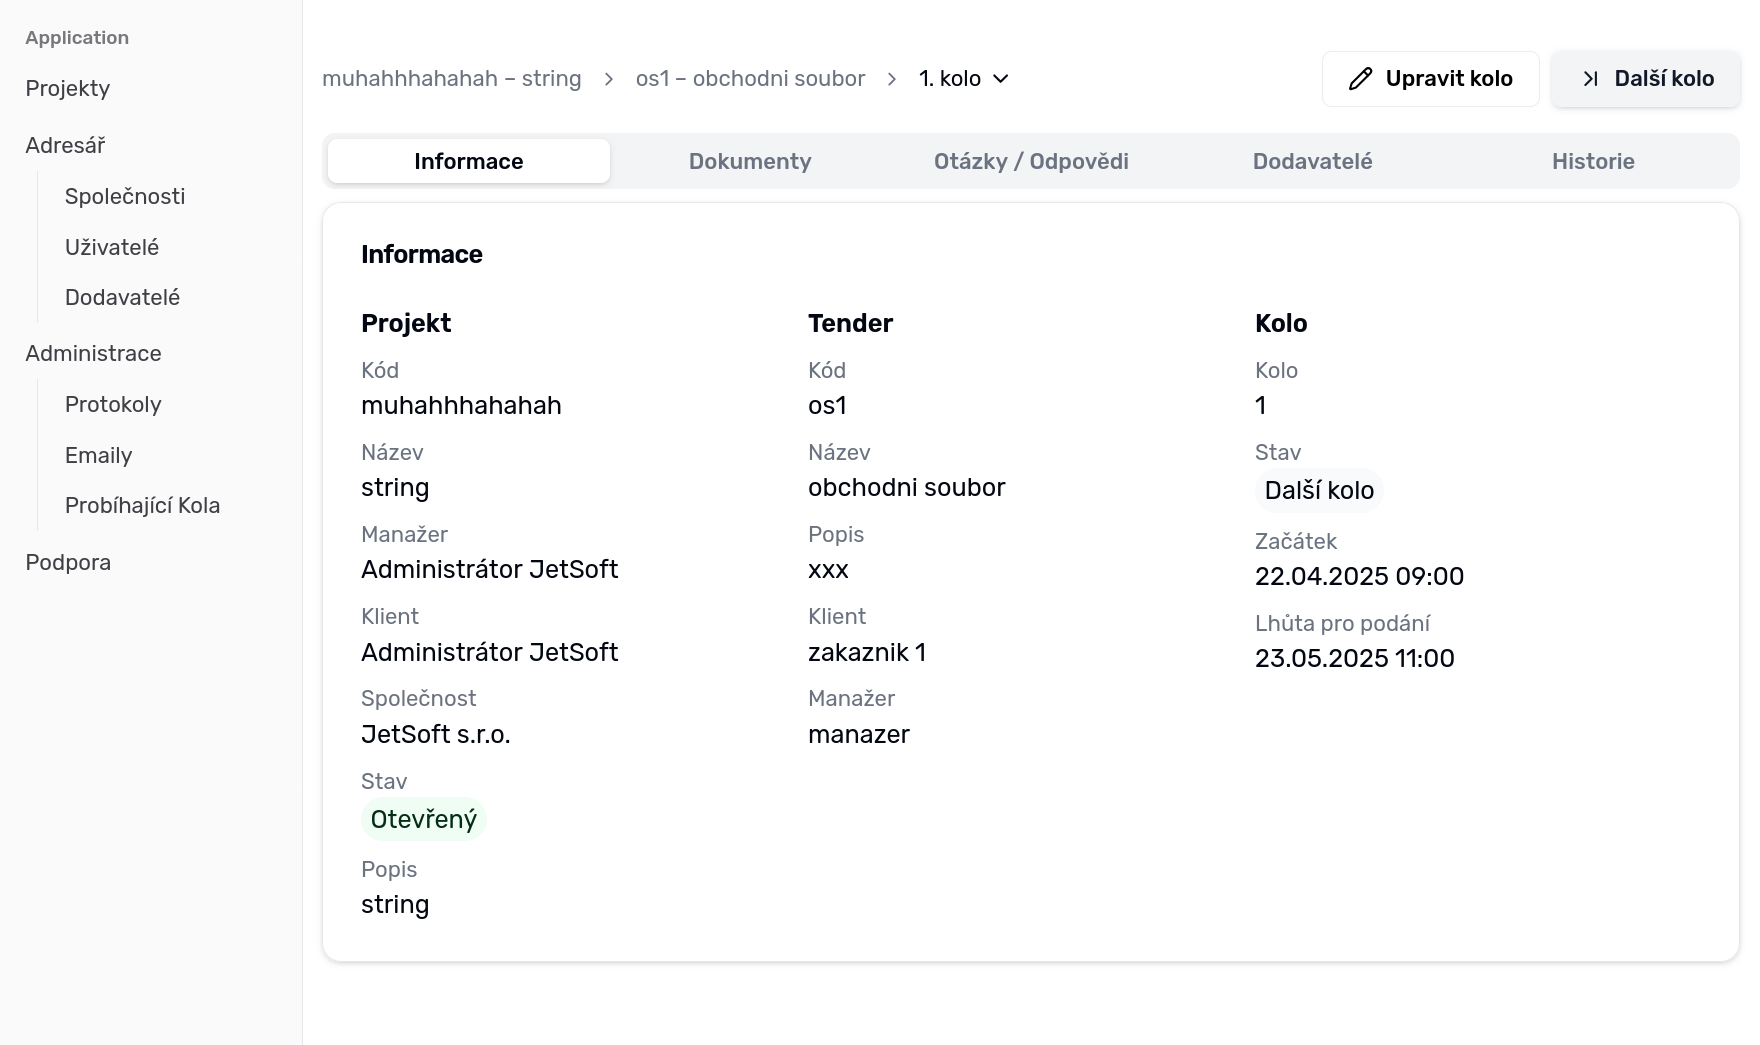
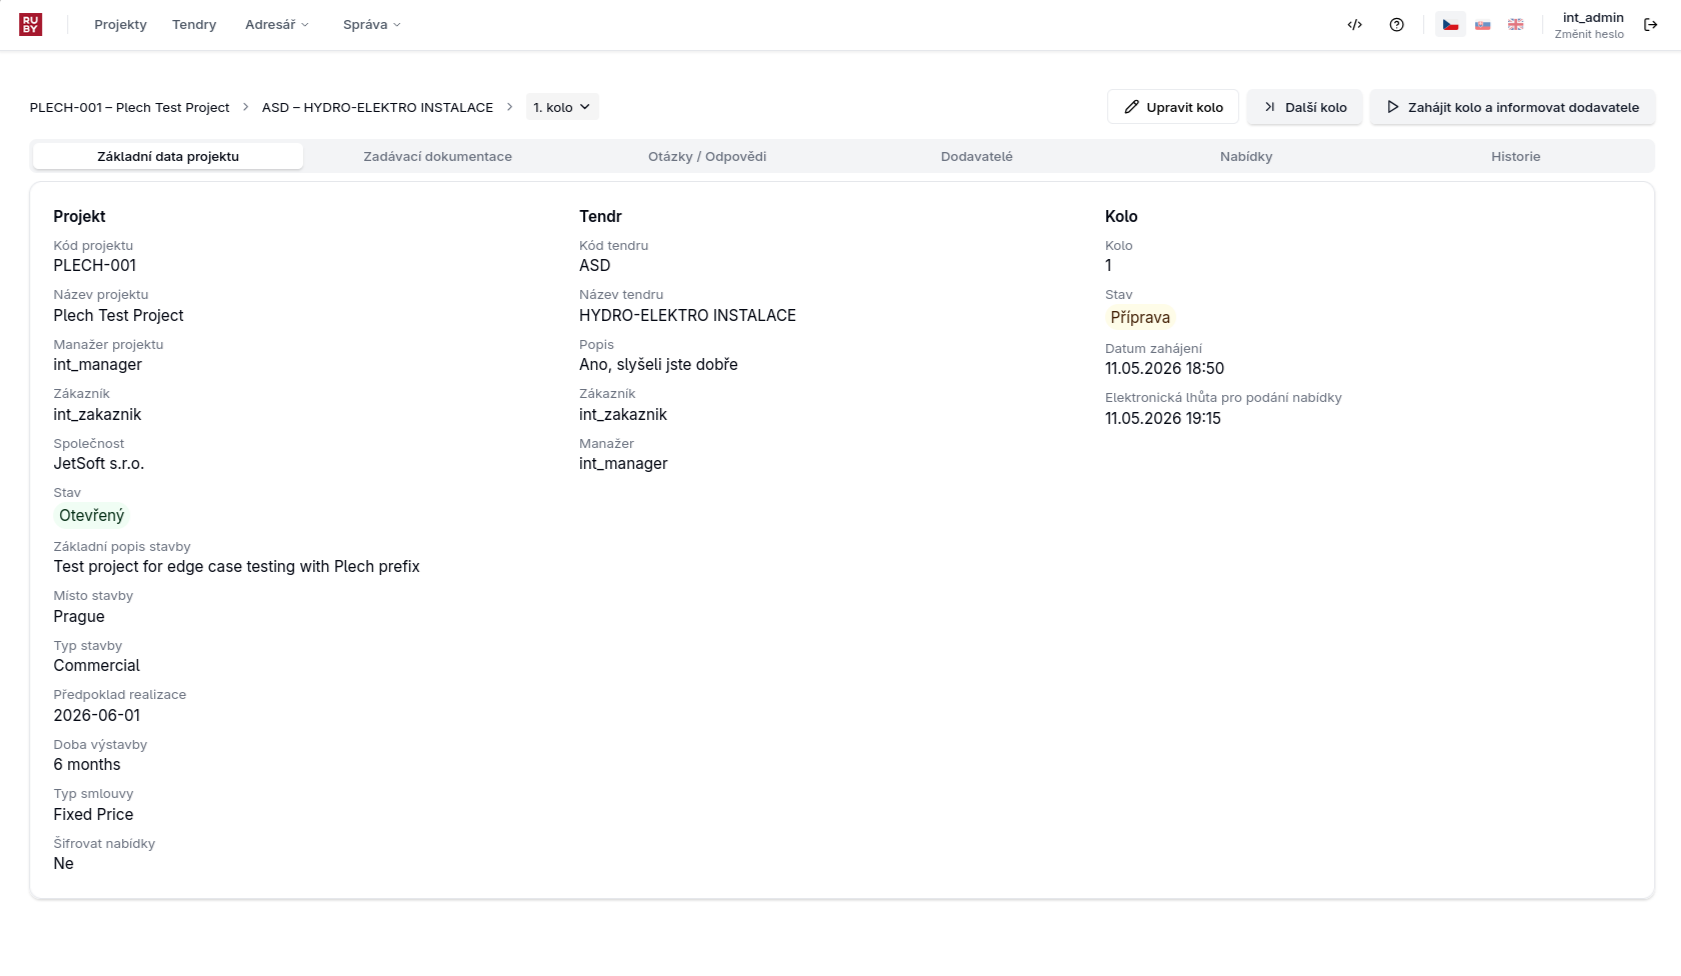
new projects content

diff --git a/src/pages/projects/mhd-run.md b/src/pages/projects/mhd-run.md
@@ -1,0 +1,14 @@
+---
+layout: ../../layouts/ProjectLayout.astro
+name: MHD run
+image: /src/images/projects/mhd-run.png
+description: "MHD Run je inspirovaný hrou Jet Lag: The Game a odehrává se na síti pražské hromadné dopravy. Dva týmy se střetnou — jeden se snaží dosáhnout svého tajného cíle, druhý ho chce chytit. Karty, powerupy a omezený čas na MHD dělají každé kolo nepředvídatelným."
+tags: [webová aplikace, webová stránka, vue.js]
+year: 2025–současnost
+priority: 10
+featured: true
+---
+
+# MHD run
+
+MHD Run je inspirovaný hrou Jet Lag: The Game a odehrává se na síti pražské hromadné dopravy. Dva týmy se střetnou — jeden se snaží dosáhnout svého tajného cíle, druhý ho chce chytit. Karty, powerupy a omezený čas na MHD dělají každé kolo nepředvídatelným.

diff --git a/src/pages/projects/jetsft-web.md b/src/pages/projects/jetsft-web.md
@@ -1,0 +1,10 @@
+---
+layout: ../../layouts/ProjectLayout.astro
+name: JetSoft.cz web
+image: /src/images/projects/Jetsoft-web.png
+description: "Web firmy JetSoft není jen jednuduchý statický web. Naopak obsahuje dynamické prvky jako: vyhledávání, list produktů, novinky a stahování programů."
+tags: [webová stránka, Next.js]
+year: "2026"
+priority: 10
+featured: true
+---